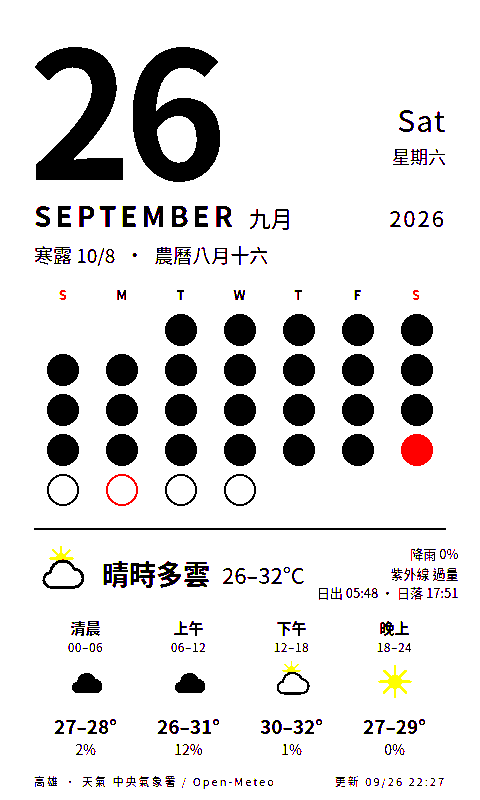
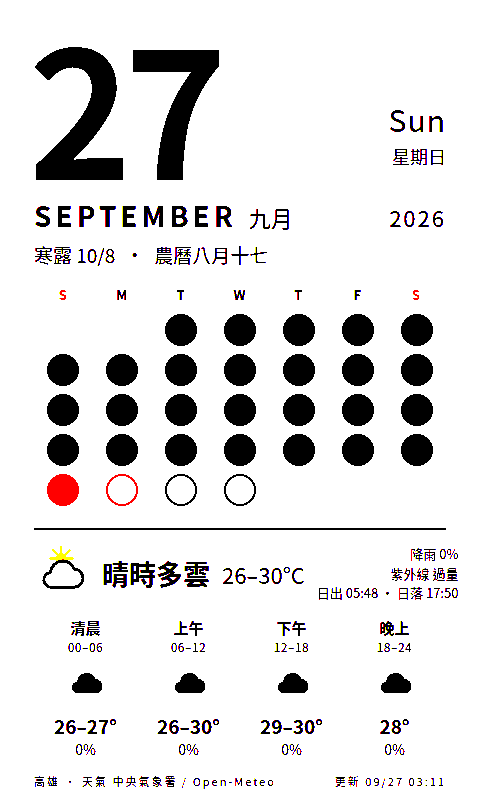
deploy: cf7d1051eb6821bc691ba0ade4beb12cdf9fe0ef

diff --git a/calendar.html b/calendar.html
@@ -47,16 +47,16 @@
 </style></head>
 <body><div class="page">
   <div class="head">
-    <div class="num">26</div>
-    <div class="wd"><div class="en">Sat</div><div class="zh">星期六</div></div>
+    <div class="num">27</div>
+    <div class="wd"><div class="en">Sun</div><div class="zh">星期日</div></div>
   </div>
   <div class="month"><span class="en">SEPTEMBER</span><span class="zh">九月</span><span class="yr">2026</span></div>
-  <div class="today"><span class="lunar">寒露 10/8</span><span>·</span><span class="lunar">農曆八月十六</span></div>
-  <div class="grid"><div class="h we">S</div><div class="h">M</div><div class="h">T</div><div class="h">W</div><div class="h">T</div><div class="h">F</div><div class="h we">S</div><div class="dot empty"></div><div class="dot empty"></div><div class="dot past" title="1"></div><div class="dot past" title="2"></div><div class="dot past" title="3"></div><div class="dot past" title="4"></div><div class="dot past" title="5"></div><div class="dot past" title="6"></div><div class="dot past" title="7"></div><div class="dot past" title="8"></div><div class="dot past" title="9"></div><div class="dot past" title="10"></div><div class="dot past" title="11"></div><div class="dot past" title="12"></div><div class="dot past" title="13"></div><div class="dot past" title="14"></div><div class="dot past" title="15"></div><div class="dot past" title="16"></div><div class="dot past" title="17"></div><div class="dot past" title="18"></div><div class="dot past" title="19"></div><div class="dot past" title="20"></div><div class="dot past" title="21"></div><div class="dot past" title="22"></div><div class="dot past" title="23"></div><div class="dot past" title="24"></div><div class="dot past" title="25"></div><div class="dot now" title="26"></div><div class="dot future" title="27"></div><div class="dot future hol" title="28"></div><div class="dot future" title="29"></div><div class="dot future" title="30"></div></div>
+  <div class="today"><span class="lunar">寒露 10/8</span><span>·</span><span class="lunar">農曆八月十七</span></div>
+  <div class="grid"><div class="h we">S</div><div class="h">M</div><div class="h">T</div><div class="h">W</div><div class="h">T</div><div class="h">F</div><div class="h we">S</div><div class="dot empty"></div><div class="dot empty"></div><div class="dot past" title="1"></div><div class="dot past" title="2"></div><div class="dot past" title="3"></div><div class="dot past" title="4"></div><div class="dot past" title="5"></div><div class="dot past" title="6"></div><div class="dot past" title="7"></div><div class="dot past" title="8"></div><div class="dot past" title="9"></div><div class="dot past" title="10"></div><div class="dot past" title="11"></div><div class="dot past" title="12"></div><div class="dot past" title="13"></div><div class="dot past" title="14"></div><div class="dot past" title="15"></div><div class="dot past" title="16"></div><div class="dot past" title="17"></div><div class="dot past" title="18"></div><div class="dot past" title="19"></div><div class="dot past" title="20"></div><div class="dot past" title="21"></div><div class="dot past" title="22"></div><div class="dot past" title="23"></div><div class="dot past" title="24"></div><div class="dot past" title="25"></div><div class="dot past" title="26"></div><div class="dot now" title="27"></div><div class="dot future hol" title="28"></div><div class="dot future" title="29"></div><div class="dot future" title="30"></div></div>
   <div class="wx"><div class="line">
-    <div class="wxhead"><svg viewBox="0 0 64 68" xmlns="http://www.w3.org/2000/svg"><g transform="translate(12 -4) scale(.6)"><circle cx="32" cy="32" r="11" fill="#f5c400"/><g stroke="#f5c400" stroke-width="4" stroke-linecap="round"><line x1="32" y1="32" x2="32" y2="8" transform="rotate(0 32 32)"/><line x1="32" y1="32" x2="32" y2="8" transform="rotate(45 32 32)"/><line x1="32" y1="32" x2="32" y2="8" transform="rotate(90 32 32)"/><line x1="32" y1="32" x2="32" y2="8" transform="rotate(135 32 32)"/><line x1="32" y1="32" x2="32" y2="8" transform="rotate(180 32 32)"/><line x1="32" y1="32" x2="32" y2="8" transform="rotate(225 32 32)"/><line x1="32" y1="32" x2="32" y2="8" transform="rotate(270 32 32)"/><line x1="32" y1="32" x2="32" y2="8" transform="rotate(315 32 32)"/></g></g><path d="M20 50h26a11 11 0 0 0 1-22 15 15 0 0 0-29 4 9 9 0 0 0 2 18z" fill="#fff" stroke="#000" stroke-width="3.5" stroke-linejoin="round"/></svg><span class="desc">晴時多雲</span><span class="temp">26–32°C</span>
-      <div class="meta">降雨 0%<br>紫外線 過量<br>日出 05:48 · 日落 17:51</div></div>
-    <div class="slots"><div class="slot"><div class="n">清晨</div><div class="hrs">00–06</div><svg viewBox="0 0 64 68" xmlns="http://www.w3.org/2000/svg"><path d="M20 50h26a11 11 0 0 0 1-22 15 15 0 0 0-29 4 9 9 0 0 0 2 18z" fill="#000"/></svg><div class="t">27–28°</div><div class="p dry">2%</div></div><div class="slot"><div class="n">上午</div><div class="hrs">06–12</div><svg viewBox="0 0 64 68" xmlns="http://www.w3.org/2000/svg"><path d="M20 50h26a11 11 0 0 0 1-22 15 15 0 0 0-29 4 9 9 0 0 0 2 18z" fill="#000"/></svg><div class="t">26–31°</div><div class="p dry">12%</div></div><div class="slot"><div class="n">下午</div><div class="hrs">12–18</div><svg viewBox="0 0 64 68" xmlns="http://www.w3.org/2000/svg"><g transform="translate(12 -4) scale(.6)"><circle cx="32" cy="32" r="11" fill="#f5c400"/><g stroke="#f5c400" stroke-width="4" stroke-linecap="round"><line x1="32" y1="32" x2="32" y2="8" transform="rotate(0 32 32)"/><line x1="32" y1="32" x2="32" y2="8" transform="rotate(45 32 32)"/><line x1="32" y1="32" x2="32" y2="8" transform="rotate(90 32 32)"/><line x1="32" y1="32" x2="32" y2="8" transform="rotate(135 32 32)"/><line x1="32" y1="32" x2="32" y2="8" transform="rotate(180 32 32)"/><line x1="32" y1="32" x2="32" y2="8" transform="rotate(225 32 32)"/><line x1="32" y1="32" x2="32" y2="8" transform="rotate(270 32 32)"/><line x1="32" y1="32" x2="32" y2="8" transform="rotate(315 32 32)"/></g></g><path d="M20 50h26a11 11 0 0 0 1-22 15 15 0 0 0-29 4 9 9 0 0 0 2 18z" fill="#fff" stroke="#000" stroke-width="3.5" stroke-linejoin="round"/></svg><div class="t">30–32°</div><div class="p dry">1%</div></div><div class="slot"><div class="n">晚上</div><div class="hrs">18–24</div><svg viewBox="0 0 64 68" xmlns="http://www.w3.org/2000/svg"><circle cx="32" cy="32" r="11" fill="#f5c400"/><g stroke="#f5c400" stroke-width="4" stroke-linecap="round"><line x1="32" y1="32" x2="32" y2="8" transform="rotate(0 32 32)"/><line x1="32" y1="32" x2="32" y2="8" transform="rotate(45 32 32)"/><line x1="32" y1="32" x2="32" y2="8" transform="rotate(90 32 32)"/><line x1="32" y1="32" x2="32" y2="8" transform="rotate(135 32 32)"/><line x1="32" y1="32" x2="32" y2="8" transform="rotate(180 32 32)"/><line x1="32" y1="32" x2="32" y2="8" transform="rotate(225 32 32)"/><line x1="32" y1="32" x2="32" y2="8" transform="rotate(270 32 32)"/><line x1="32" y1="32" x2="32" y2="8" transform="rotate(315 32 32)"/></g></svg><div class="t">27–29°</div><div class="p dry">0%</div></div></div>
+    <div class="wxhead"><svg viewBox="0 0 64 68" xmlns="http://www.w3.org/2000/svg"><g transform="translate(12 -4) scale(.6)"><circle cx="32" cy="32" r="11" fill="#f5c400"/><g stroke="#f5c400" stroke-width="4" stroke-linecap="round"><line x1="32" y1="32" x2="32" y2="8" transform="rotate(0 32 32)"/><line x1="32" y1="32" x2="32" y2="8" transform="rotate(45 32 32)"/><line x1="32" y1="32" x2="32" y2="8" transform="rotate(90 32 32)"/><line x1="32" y1="32" x2="32" y2="8" transform="rotate(135 32 32)"/><line x1="32" y1="32" x2="32" y2="8" transform="rotate(180 32 32)"/><line x1="32" y1="32" x2="32" y2="8" transform="rotate(225 32 32)"/><line x1="32" y1="32" x2="32" y2="8" transform="rotate(270 32 32)"/><line x1="32" y1="32" x2="32" y2="8" transform="rotate(315 32 32)"/></g></g><path d="M20 50h26a11 11 0 0 0 1-22 15 15 0 0 0-29 4 9 9 0 0 0 2 18z" fill="#fff" stroke="#000" stroke-width="3.5" stroke-linejoin="round"/></svg><span class="desc">晴時多雲</span><span class="temp">26–30°C</span>
+      <div class="meta">降雨 0%<br>紫外線 過量<br>日出 05:48 · 日落 17:50</div></div>
+    <div class="slots"><div class="slot"><div class="n">清晨</div><div class="hrs">00–06</div><svg viewBox="0 0 64 68" xmlns="http://www.w3.org/2000/svg"><path d="M20 50h26a11 11 0 0 0 1-22 15 15 0 0 0-29 4 9 9 0 0 0 2 18z" fill="#000"/></svg><div class="t">26–27°</div><div class="p dry">0%</div></div><div class="slot"><div class="n">上午</div><div class="hrs">06–12</div><svg viewBox="0 0 64 68" xmlns="http://www.w3.org/2000/svg"><path d="M20 50h26a11 11 0 0 0 1-22 15 15 0 0 0-29 4 9 9 0 0 0 2 18z" fill="#000"/></svg><div class="t">26–30°</div><div class="p dry">0%</div></div><div class="slot"><div class="n">下午</div><div class="hrs">12–18</div><svg viewBox="0 0 64 68" xmlns="http://www.w3.org/2000/svg"><path d="M20 50h26a11 11 0 0 0 1-22 15 15 0 0 0-29 4 9 9 0 0 0 2 18z" fill="#000"/></svg><div class="t">29–30°</div><div class="p dry">0%</div></div><div class="slot"><div class="n">晚上</div><div class="hrs">18–24</div><svg viewBox="0 0 64 68" xmlns="http://www.w3.org/2000/svg"><path d="M20 50h26a11 11 0 0 0 1-22 15 15 0 0 0-29 4 9 9 0 0 0 2 18z" fill="#000"/></svg><div class="t">28°</div><div class="p dry">0%</div></div></div>
   </div></div>
-  <div class="foot"><span>高雄 · 天氣 中央氣象署 / Open-Meteo</span><span>更新 09/26 22:27</span></div>
+  <div class="foot"><span>高雄 · 天氣 中央氣象署 / Open-Meteo</span><span>更新 09/27 03:11</span></div>
 </div></body></html>
